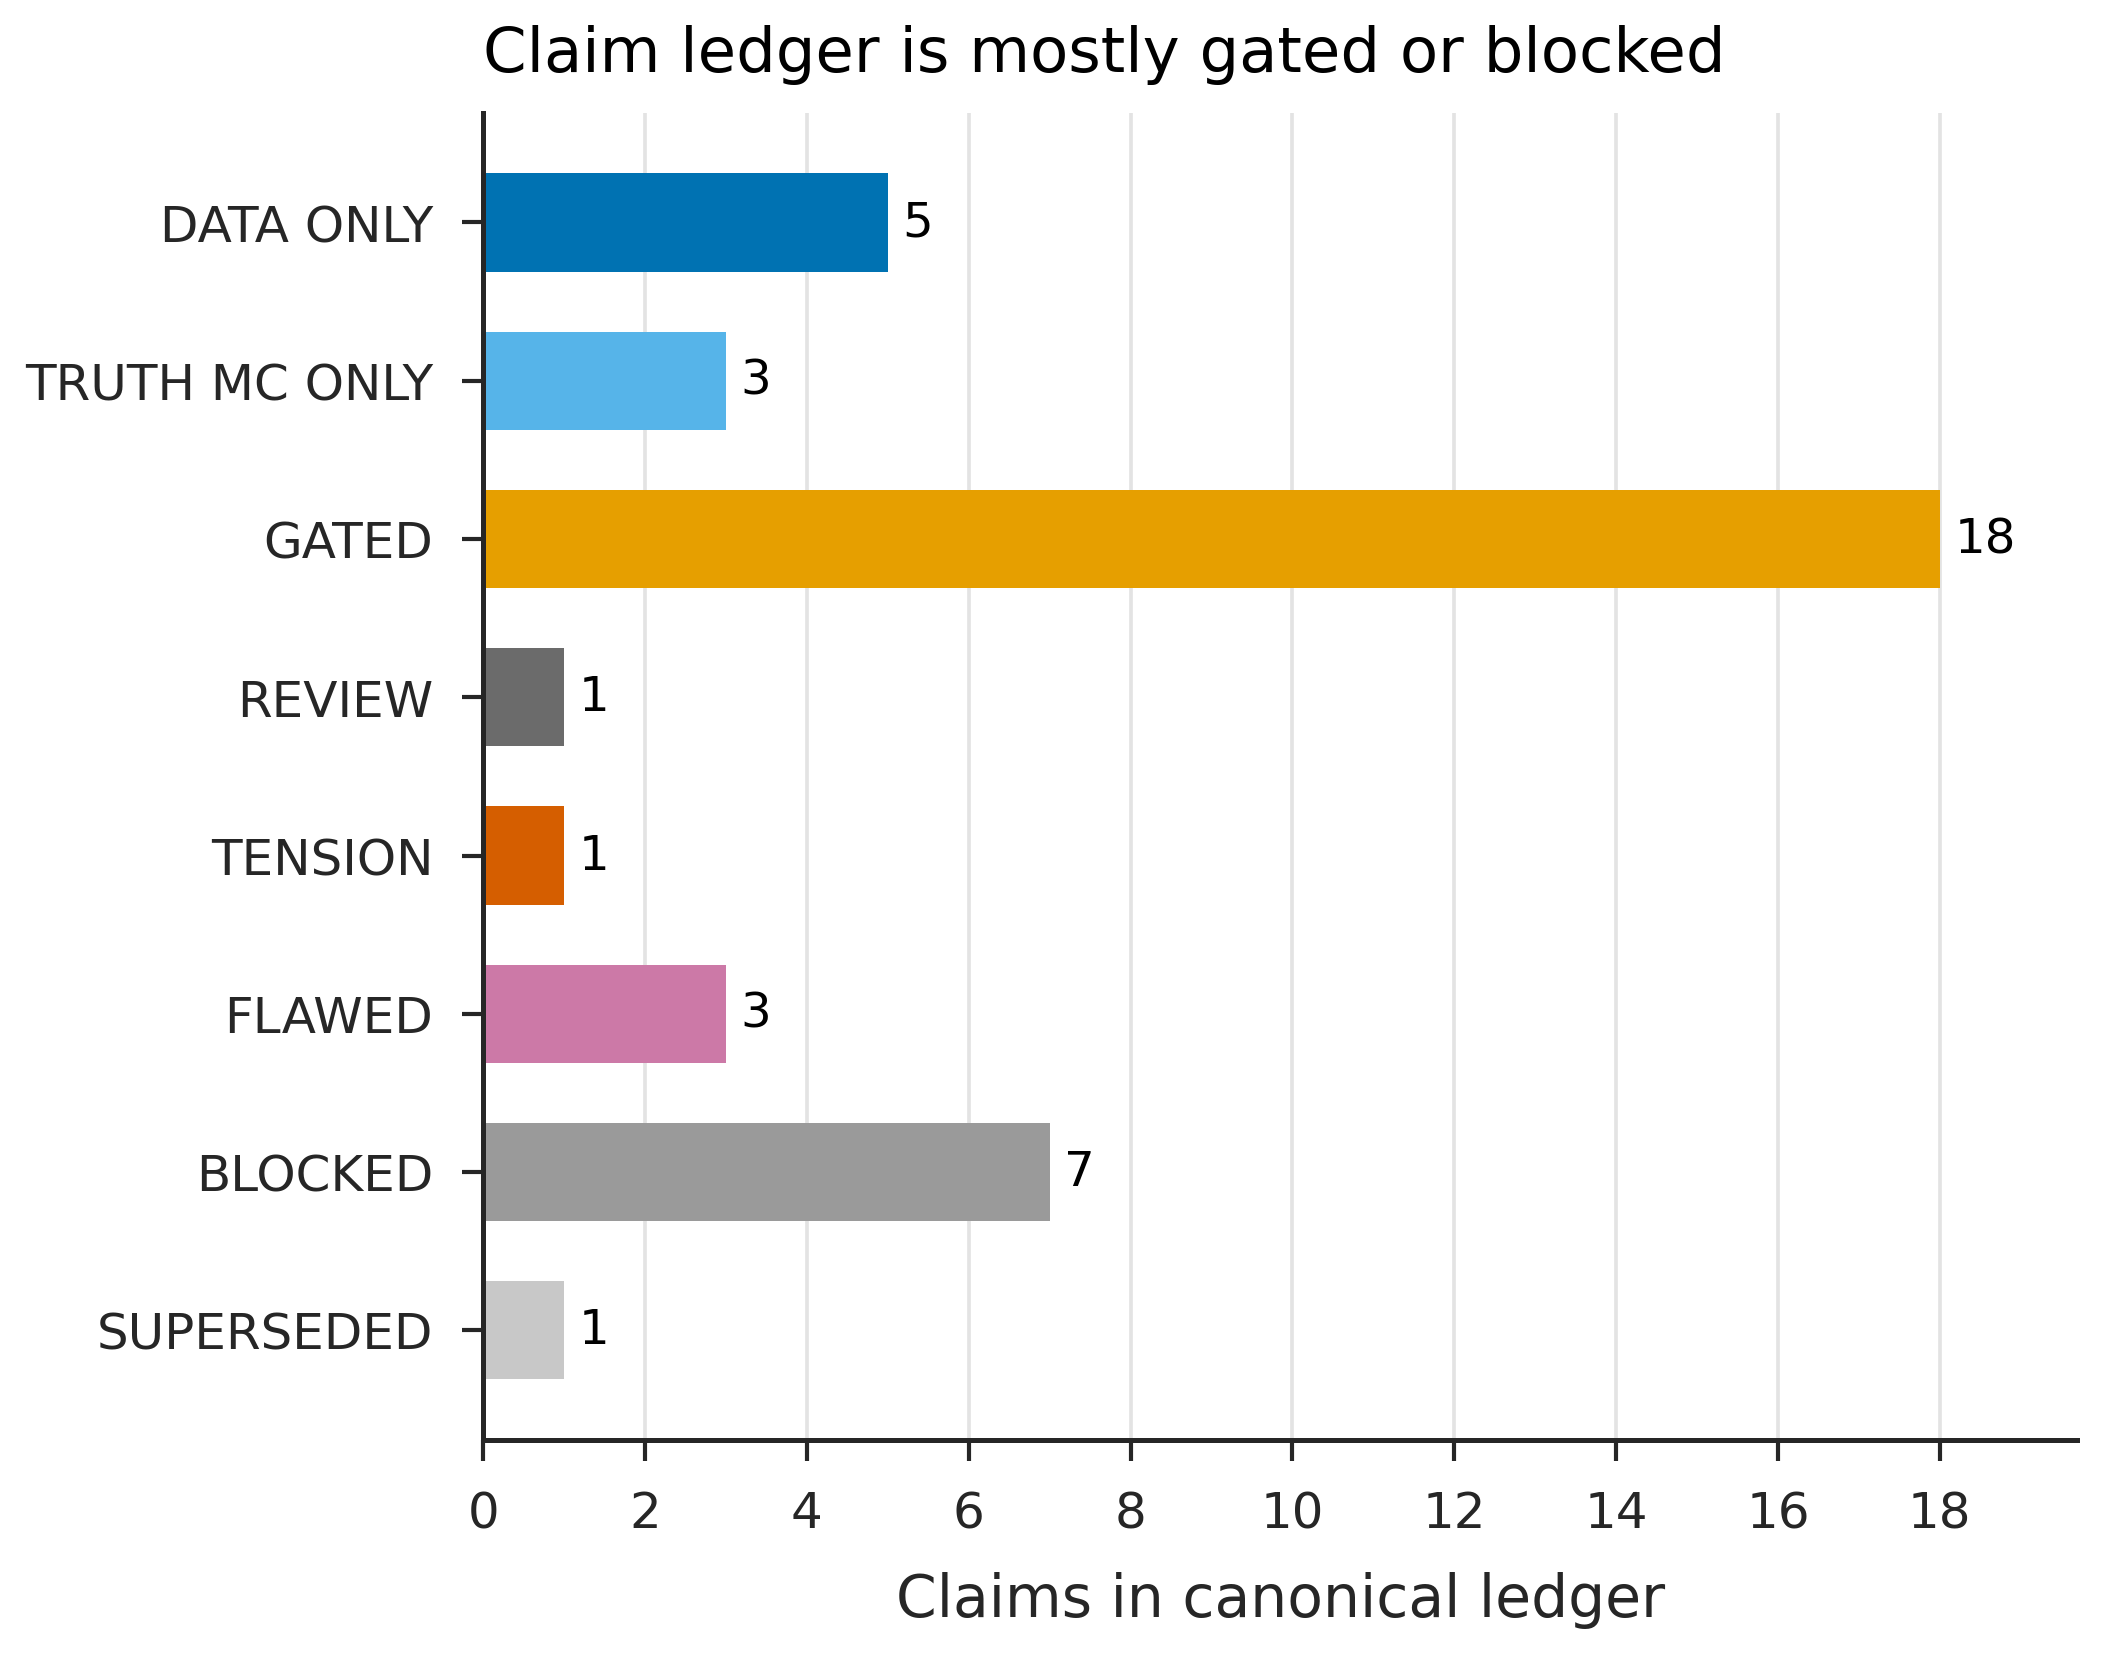
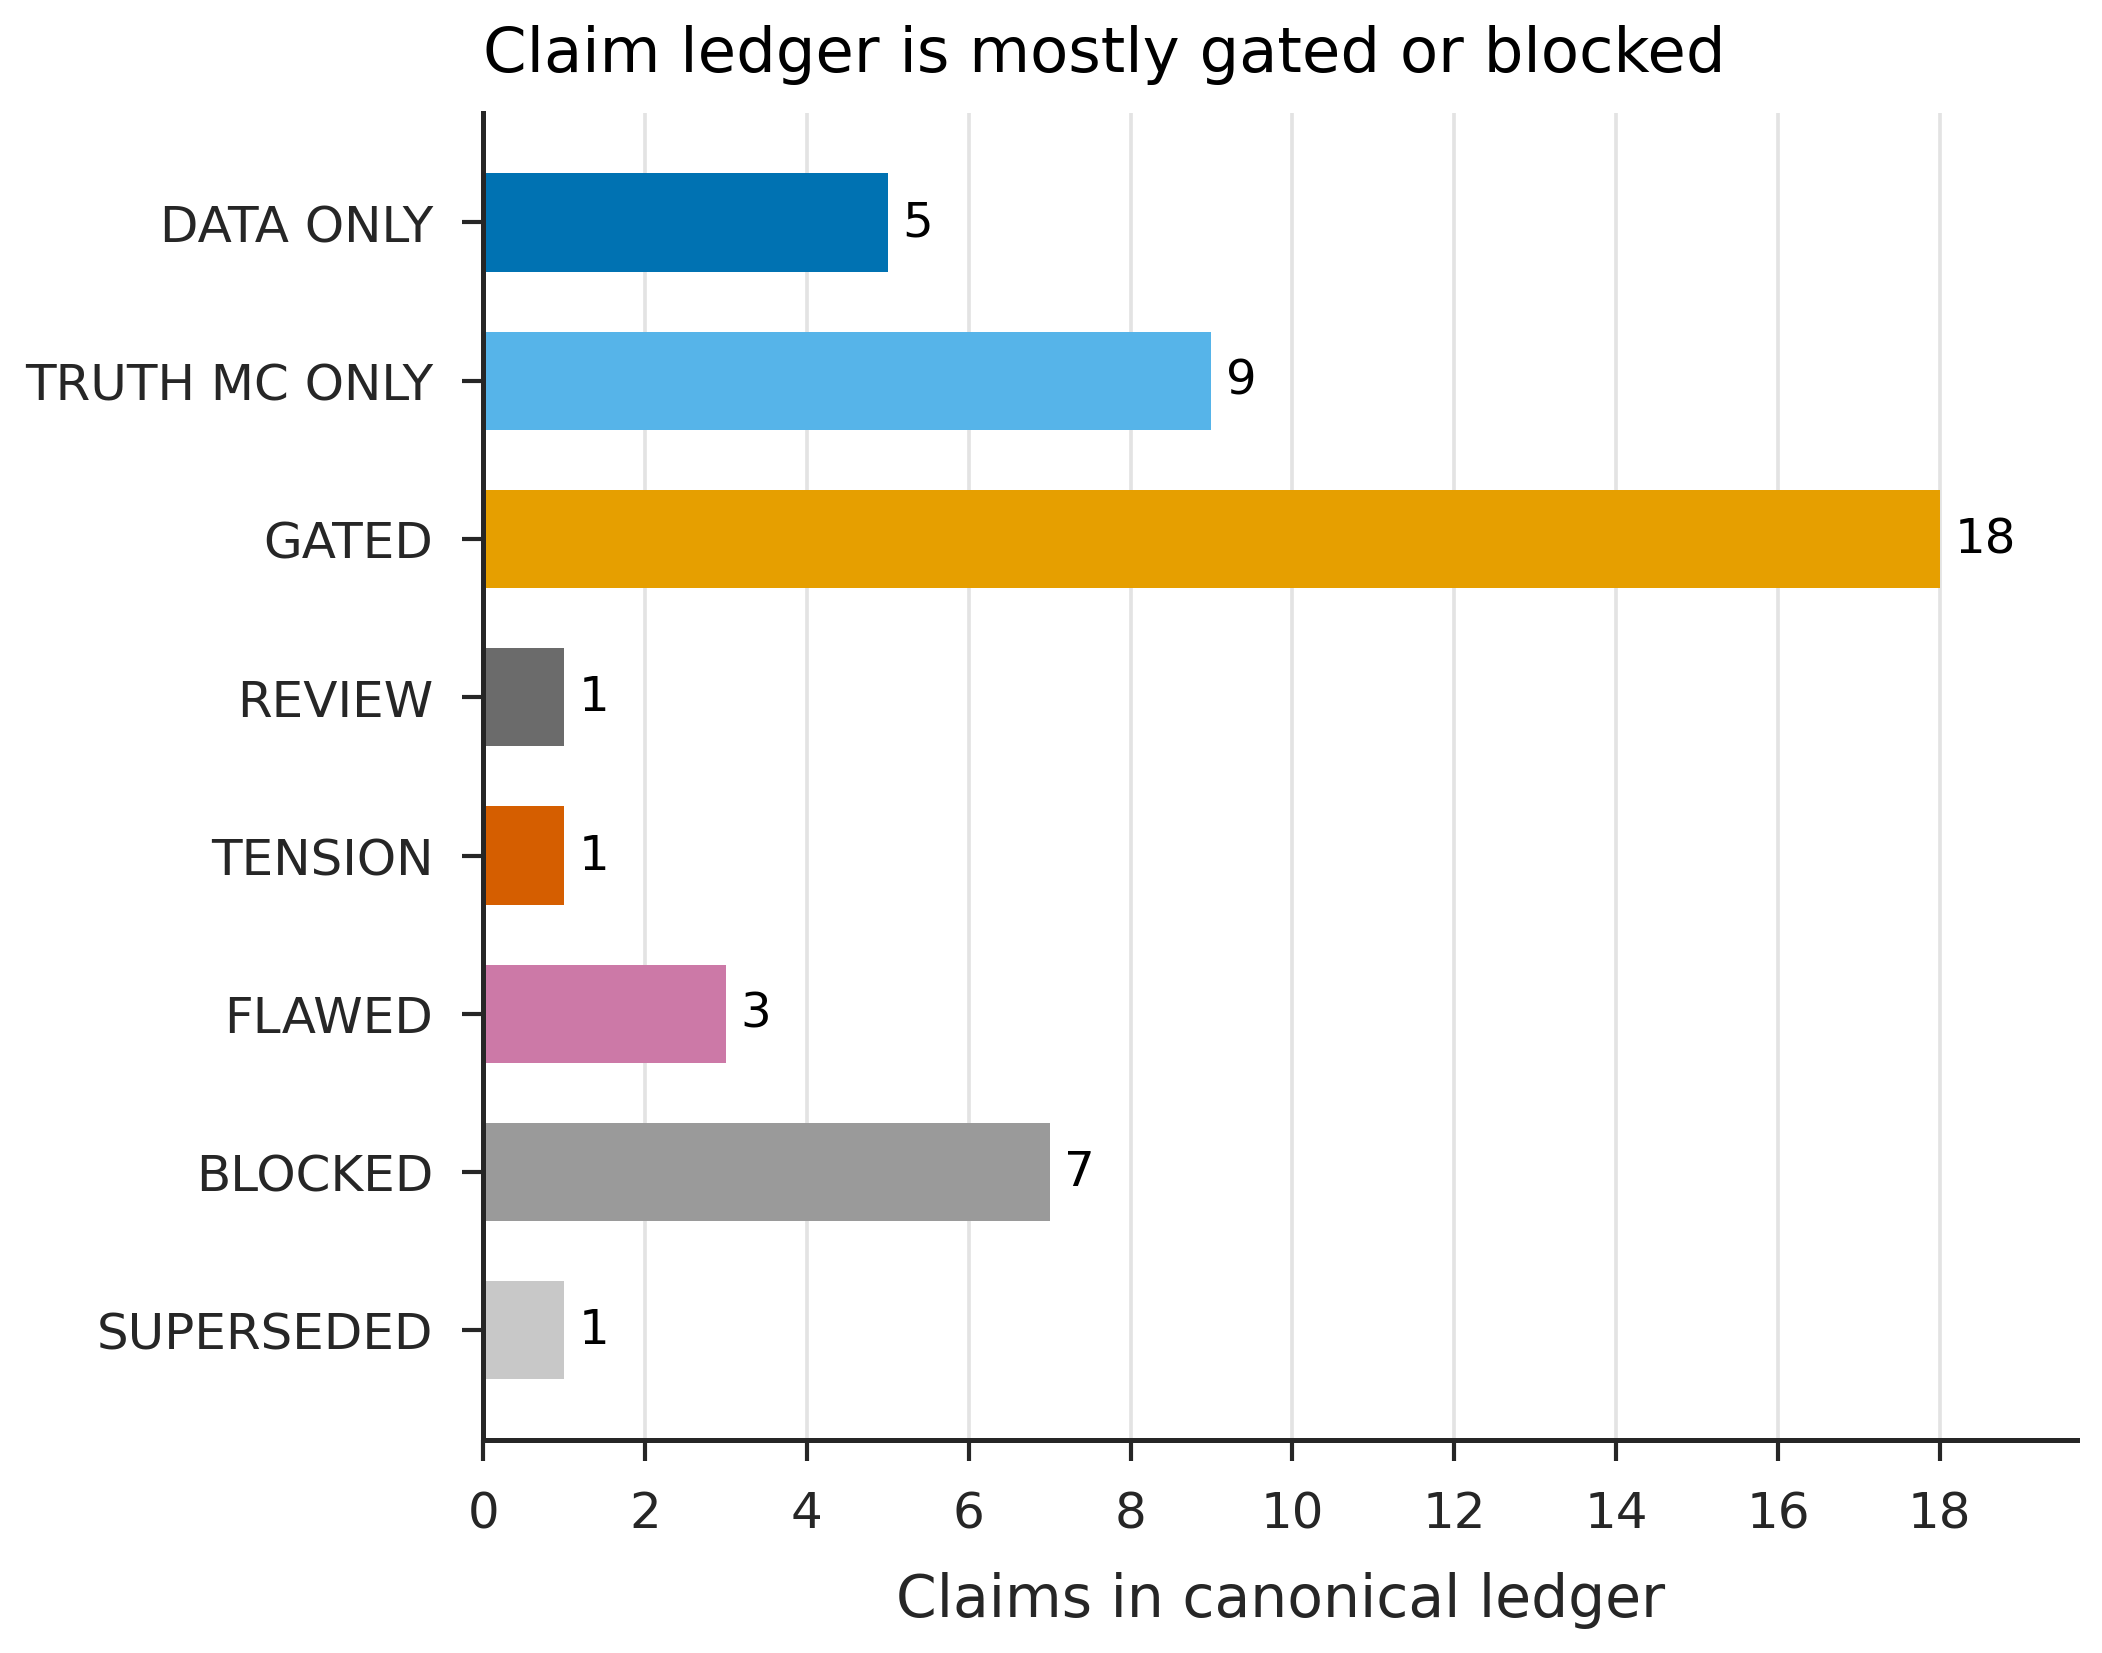
pub: wire real package to the submission validator contract
- claim ledger: +6 honest claims for the #1317/#1319/#618/#1303 figure and
  table packages (status TRUTH_LEVEL_MC_ONLY within the controlled
  vocabulary, allowed=YES, SHA-bound report provenance)
- figures/tables MANIFEST.csv: final/ rows now carry status, source_path,
  sha256, source_sha256, claim_ids and evidence_class against
  machine-readable report sources; gated artifacts cite their true gated
  claims (CL-1318-002, CL-1320-002, CL-029)
- publication source_data/: paper_1317 + paper_1319 source tables copied
  into the namespace (README empty-namespace rule)
- regenerated the FIG-WIKI-002 derived surfaces (claim_status_overview
  render + source table + docs/wiki_plot_manifest.csv) via make plots-docs
  in the pinned plotting env — TRUTH_LEVEL_MC_ONLY 3->9
- tests/test_publication_real_package_readiness.py: pin the validator state
  to exactly the 7 known blockers with zero bookkeeping violations
- A_publication_status.tex: 2026-08-17 wiring status

Validator output is now substance-only. The two suite failures seen in the
wider -k subset (order-dependent PNG QA flake in test_paper_grade_plots,
sipm submodule clone in test_sipm_campaign_manifest) reproduce identically
at baseline.

Changed region(s): [[0.3402, 0.1851, 0.6185, 0.2777]]

diff --git a/tests/test_publication_real_package_readiness.py b/tests/test_publication_real_package_readiness.py
@@ -1,0 +1,89 @@
+"""Pin the real publication package's submission-readiness violation set.
+
+The package is intentionally NOT submission-ready: four artifacts cite gated
+claims (CL-029 / CL-1318-002 / CL-1320-002), STATUS.md holds, and the build
+receipt predates the current head. Everything else -- manifest schema, artifact
+and source SHA-256s, machine-readable sources, claim resolution and claim
+provenance -- must stay clean. These tests fail whenever the *kind* of
+violations changes, so a new bookkeeping defect cannot hide behind the known
+scientific blockers, and a resolved blocker forces this pin to be updated in
+the same PR that resolves it.
+"""
+from __future__ import annotations
+
+import re
+import subprocess
+import sys
+from pathlib import Path
+
+REPO = Path(__file__).resolve().parents[1]
+VALIDATOR = REPO / "publication" / "scripts" / "validate_submission_readiness.py"
+SHA_RE = re.compile(r"\b[0-9a-f]{40,64}\b")
+
+EXPECTED_VIOLATIONS = {
+    "publication/STATUS.md still declares a non-submission-ready state",
+    "figure final/data_depth_profile.pdf: claim CL-1318-002 is not authorised "
+    "(status=GATED, allowed=NO)",
+    "figure final/timing_b4_b6_residual.pdf: claim CL-1320-002 is not authorised "
+    "(status=GATED, allowed=NO)",
+    "table final/heldout_energy_reconstruction_summary_E_raw.csv: claim CL-029 "
+    "is not authorised (status=GATED, allowed=YES)",
+    "table final/heldout_energy_reconstruction_summary_E_vis.csv: claim CL-029 "
+    "is not authorised (status=GATED, allowed=YES)",
+    "BUILD_RECEIPT scientific_status must be SUBMISSION_READY, "
+    "got FAIL_CLOSED_NOT_SUBMISSION_READY",
+    "BUILD_RECEIPT head <sha> does not match current HEAD <sha>",
+}
+
+# Bookkeeping defect classes that the 2026-08-17 manifest wiring eliminated.
+# Any reappearance is a regression regardless of which artifact triggers it.
+BOOKKEEPING_SUBSTRINGS = (
+    "lacks submission fields",
+    "status must be FINAL",
+    "sha256 missing",
+    "SHA-256 mismatch",
+    "source_path is not",
+    "no claim_ids",
+    "unknown claim_id",
+    "lacks source_manifest",
+    "lacks source_commit",
+    "lacks ci_status",
+    "has no non-README",
+    "evidence_class missing",
+    "final artifact missing",
+    "diverges from",
+    "publication-hold blocks remain",
+    "contains no final/ rows",
+)
+
+
+def _validator_lines() -> list[str]:
+    proc = subprocess.run(
+        [sys.executable, str(VALIDATOR)],
+        cwd=REPO,
+        capture_output=True,
+        text=True,
+        check=False,
+    )
+    assert proc.returncode == 1, (
+        f"validator exit {proc.returncode}; expected exactly the pinned blocker set"
+    )
+    assert "SUBMISSION_READINESS_FAIL" in proc.stdout
+    return [ln[2:] for ln in proc.stdout.splitlines() if ln.startswith("- ")]
+
+
+def test_real_package_violations_are_exactly_the_known_blockers() -> None:
+    normalized = {SHA_RE.sub("<sha>", ln) for ln in _validator_lines()}
+    added = sorted(normalized - EXPECTED_VIOLATIONS)
+    removed = sorted(EXPECTED_VIOLATIONS - normalized)
+    assert not added and not removed, (
+        f"submission-readiness violation set changed.\n"
+        f"  new violations: {added}\n"
+        f"  resolved/renamed: {removed}\n"
+        f"Update EXPECTED_VIOLATIONS in the same PR that changes the package."
+    )
+
+
+def test_no_bookkeeping_violations_remain() -> None:
+    hits = [ln for ln in _validator_lines() if any(s in ln for s in BOOKKEEPING_SUBSTRINGS)]
+    assert not hits, f"bookkeeping violations must stay at zero: {hits}"

diff --git a/publication/chapters/A_publication_status.tex b/publication/chapters/A_publication_status.tex
@@ -18,12 +18,12 @@ This appendix is part of the working PDF so that exported copies cannot lose the
 \#1053 / \#1179 / \#1311 & MC event measure, source uncertainty and production provenance. The deterministic direct-CDF sampler defect tracked by \#1178 is repaired/closed; that bounded software closure does not authorise the historical paper MC.\\
 \#1088 / \#1303 / \#1322 & WLS photophysics and regeneration of the single-stave optical grid after superseded source defects, followed by replacement optical/energy figures.\\
 \#1302 / \#1297 & Raw deposited energy vs Birks-visible energy semantics and a corrected held-out reconstruction study.\\
-\#1317--\#1320 & Final setup, beam-data longitudinal-profile, MC longitudinal-profile and timing figure packages remain pending.\\
+\#1317--\#1320 & Setup, longitudinal-profile and timing figure packages are wired into the submission manifests with SHA-bound machine-readable sources; the beam-data profile and timing artifacts remain gated on CL-1318-002 / CL-1320-002.\\
 \#1304 / \#1299 & Single scientific source of truth for claim status across figures, WIKI and manuscript, plus stale-document reconciliation.\\
 \#1301 / \#1305 & Umbrella submission and merged-state fail-closed gates.\\
 \bottomrule
 \end{longtable}
 
-As of the 2026-08-14 current-head audit, the authorising final-figure, final-figure-source-data and final-result-table namespaces contain no non-README scientific artifacts. The build validator checks the controlled package structure and hold state; it is not yet a numerical/provenance submission-readiness validator.
+As of the 2026-08-17 manifest wiring, the final-figure namespace carries 15 figures and the final-table namespace 4 tables, each with artifact SHA-256, a repo-relative machine-readable source and resolved claim IDs; the source-data namespace carries the small per-figure source tables. The submission-readiness validator enforces this contract mechanically. The remaining violations are the known scientific blockers: the gated claims behind the beam-data profile, timing residual and held-out reconstruction summaries (CL-1318-002, CL-1320-002, CL-029), the STATUS.md hold, and the build receipt predating the current head.
 
 The Cycle-3 audit documents the detailed failure modes under \nolinkurl{chatgpt_todo/PAPER_SUBMISSION_AUDIT_CYCLE3_20260812.md} and its addenda. The current-head dependency order and section-by-section review are recorded under \nolinkurl{chatgpt_todo/PAPER_COMPLETION_AUDIT_20260814.md}.
